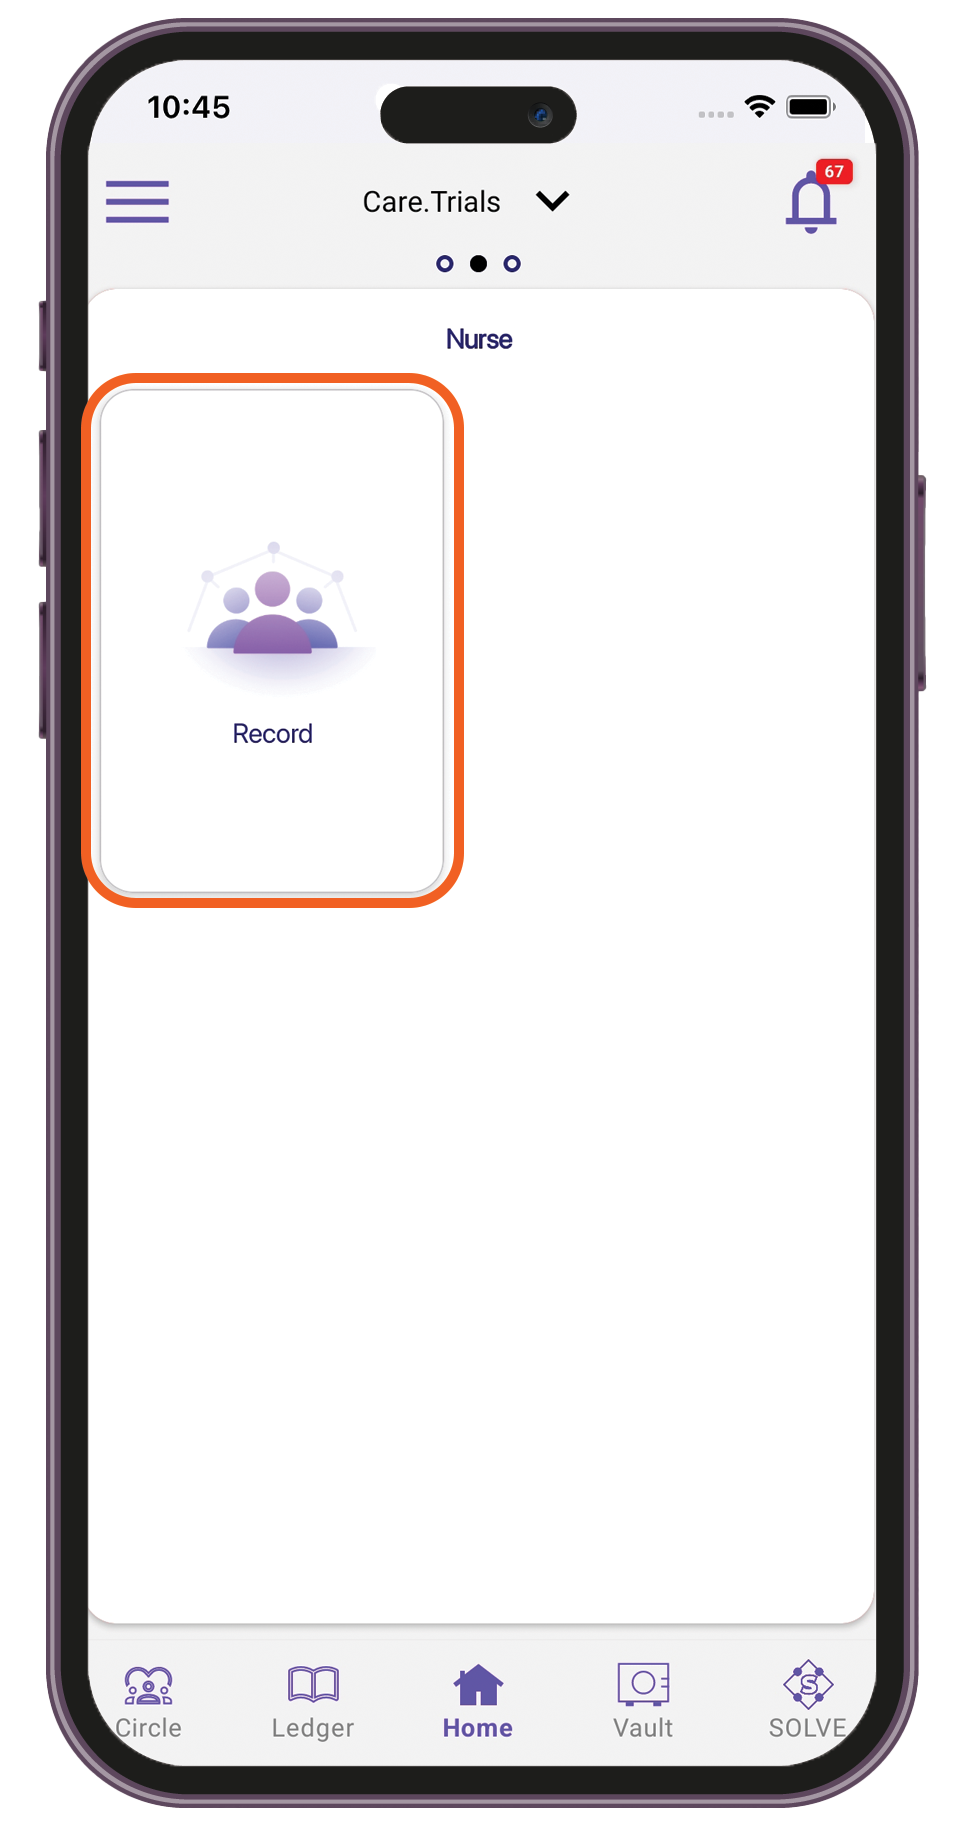
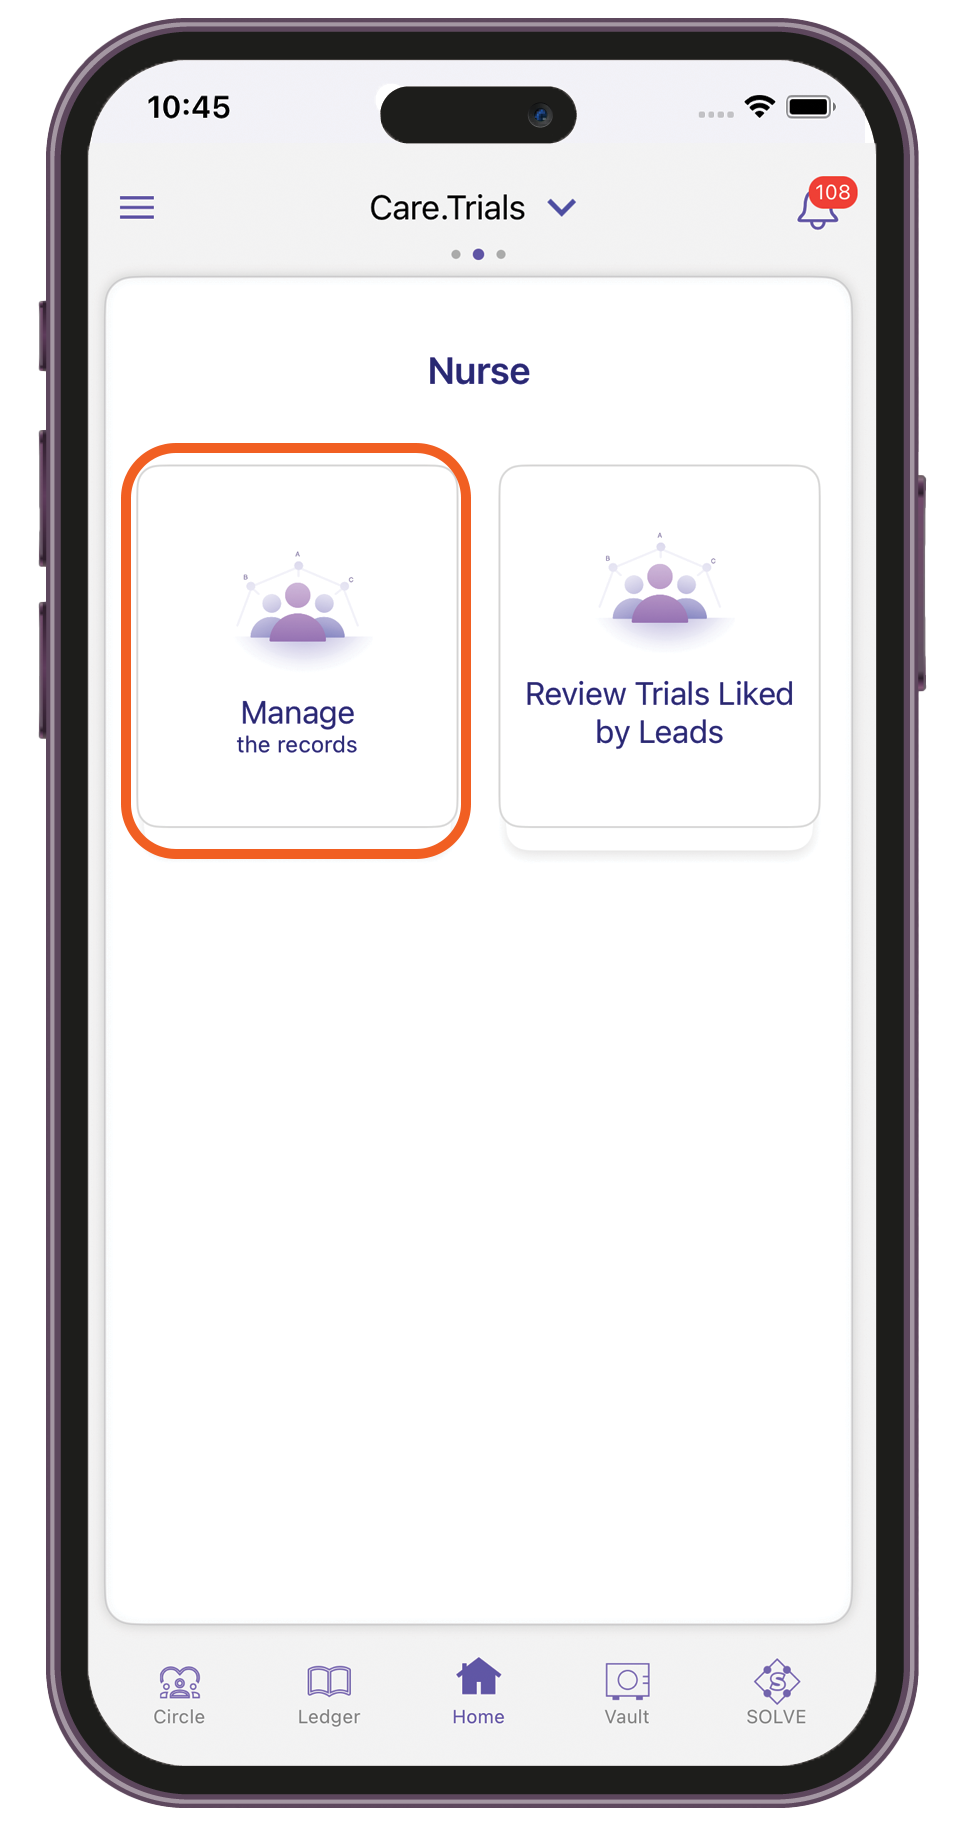
GITBOOK-161: updated steps for ctn nurse journeys

diff --git a/care.wallet-user-manual/care.trials/nurse.md b/care.wallet-user-manual/care.trials/nurse.md
@@ -4,7 +4,7 @@
 
 1. Sign in to the Care.Wallet app.
 2. From the Manage Networks screen, tap **Care.Trials**.
-3. Tap **Record** **> Pending record review**.
+3. Tap **Manage the Records > Pending record review**.
 
 <div>
 
@@ -30,7 +30,7 @@
 
 5. Approve or reject the records.
 
-### Viewing reviewed records
+### Viewing history of reviewed records
 
 1. Sign in to the Care.Wallet app.
 2. From the Manage Networks screen, tap **Care.Trials**.
@@ -47,5 +47,50 @@
  
 
 <figure><img src="../../.gitbook/assets/care-trials-nurse-record-details.png" alt="" width="188"><figcaption></figcaption></figure>
+
+</div>
+
+### Reviewing lead eligibility
+
+1. Sign in to the Care.Wallet app.
+2. From the Manage Networks screen, tap **Care.Trials**.
+3. Tap **Review Trials Liked by Leads > Pending Review**.
+
+<div>
+
+<figure><img src="../../.gitbook/assets/care-trials-nurse-review-trials-liked.png" alt="" width="188"><figcaption></figcaption></figure>
+
+ 
+
+<figure><img src="../../.gitbook/assets/care-trials-nurse-leads-pending-review.png" alt="" width="188"><figcaption></figcaption></figure>
+
+</div>
+
+4. Select the lead you want to review.
+5. Do either of the following:
+   * View the details of the trial
+   * Ask a question to the lead
+
+<figure><img src="../../.gitbook/assets/care-trials-nurse-connect-with-lead.png" alt="" width="188"><figcaption></figcaption></figure>
+
+6. Approve or reject the lead.
+
+### Viewing lead verification details
+
+1. Sign in to the Care.Wallet app.
+2. From the Manage Networks screen, tap **Care.Trials**.
+3. Tap **Review Trials Liked by Leads > Reviewed Leads**.
+
+<figure><img src="../../.gitbook/assets/care-trials-nurse-reviewed-leads.png" alt="" width="188"><figcaption></figcaption></figure>
+
+4. Select the lead verification details that you want to view.
+
+<div>
+
+<figure><img src="../../.gitbook/assets/care-trials-nurse-review-lead-verification.png" alt="" width="188"><figcaption></figcaption></figure>
+
+ 
+
+<figure><img src="../../.gitbook/assets/care-trials-nurse-verification-status (1).png" alt="" width="188"><figcaption></figcaption></figure>
 
 </div>

diff --git a/platform-overview/introduction.md b/platform-overview/introduction.md
@@ -2,13 +2,13 @@
 
 ## What is Care.Platform?
 
-Care.Platform is a secure and decentralized ecosystem that allows individuals to take control of their data using blockchain-powered technologies. It is designed to reduce reliance on centralized IT systems and provides a foundation for Web3 development.
+Care.Platform is a secure and decentralized platform that allows individuals to take control of their data using blockchain-powered technologies. It is designed to reduce reliance on centralized IT systems and provides a foundation for Web3 development.
 
 ## **Key Components**
 
 **Chain**: A distributed ledger that chronologically records a series of events and transactions. These records are linked together, forming a continuous and immutable chain of data.
 
-**Wallet**: A mobile application that allows users to store and manage digital assets and records, and interact with other Wallet users and decentralized applications (dApps).
+**Wallet**: A mobile application that allows users to store and manage digital assets and records, interact with other Wallet users and use decentralized applications (dApps).
 
 **dApp**: A decentralized application in Web3 that offers functionalities like interactions, data exchanges, and workflows for specific user roles.
 

diff --git a/care.wallet-user-manual/care.trials/README.md b/care.wallet-user-manual/care.trials/README.md
@@ -7,6 +7,7 @@ Participate in clinical trials to help discover new treatments and contribute to
 ## Types of roles in Care.Trials
 
 * **Participants** — When you join the Care.Trials network as a participant, you will have access to available trials that match your profile. Use swiping to like or skip matched trials.
+* **Physician** — The physician, also known as principal investigator, helps connect patients to relevant clinical trials. In Care.Trials network, the physician can browse trials, refer patients and search for trial sponsors.
 * **Site Admin** — The site admin helps coordinate clinical trials in a specific site location. In the Care.Trials network, the site admin can view leads and interact with the participants to collect medical records and set appointments for screening.
 * **Trial Admin** — The trial admin oversees the clinical trials in all sites. In the Care.Trials network, the trial admin can activate trials and set the budget for a trial site.
 * **Nurse** — The nurse in the Care.Trials network can verify and review the participant's ID and medical records.
